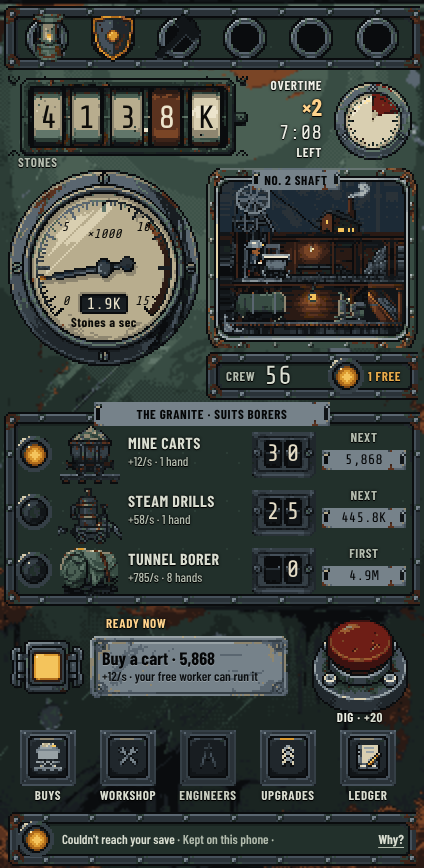
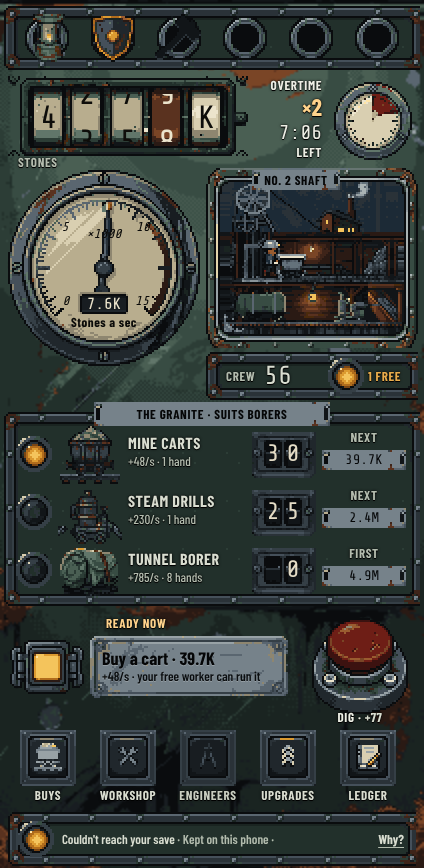
The control-board mockup shows the #357 prices and marks, kept equal to the game by a test (#387) (#391)
* The control-board mockup takes its prices, speeds and milestone lines from the game's numbers, kept equal by a test (#387).

Claude-Session: https://claude.ai/code/session_011RgeWtHrfst9ZFo4UNmN4N

* Better boots in the control-board mockup multiply the marked workers as the game does, and the dead green info state goes (#387).

Claude-Session: https://claude.ai/code/session_011RgeWtHrfst9ZFo4UNmN4N

---------

diff --git a/mockups/control-board/index.html b/mockups/control-board/index.html
@@ -215,8 +215,7 @@ body.desk #housing{display:block}
 .srow .ico{width:64px;height:64px}
 .srow .mid{position:relative;display:flex;flex-direction:column;min-width:0;overflow:hidden}
 .srow .nm{font-size:17px;line-height:19px;font-weight:700;color:var(--ink);white-space:nowrap}
-.srow .info{font-size:13px;line-height:15px;color:var(--ink-2);white-space:nowrap}
-.srow .info.good{color:var(--green)}
+.srow .info{font-size:13px;line-height:15px;color:var(--ink-2);white-space:nowrap;overflow:hidden;text-overflow:ellipsis}
 .srow .need{font-size:13px;line-height:15px;color:var(--rust);white-space:nowrap}
 .srow .need:empty{display:none}
 .srow .flag{color:var(--amber)}
@@ -444,6 +443,141 @@ body.desk #housing{display:block}
 </div>
 </div>
 
+<!-- The game's numbers: src/tiers.ts, src/milestones.ts, src/layers.ts (the Granite) and src/upgrades.ts (boots).
+     mockups/control-board.test.ts keeps this block equal to them (#387). -->
+<script type="application/json" id="game-numbers">
+{
+ "growth": {
+  "machine": 1.15,
+  "worker": 1.06
+ },
+ "tiers": {
+  "helper": {
+   "firstCost": 20,
+   "perSecond": 1
+  },
+  "cart": {
+   "firstCost": 600,
+   "perSecond": 6
+  },
+  "drill": {
+   "firstCost": 73080,
+   "perSecond": 36
+  },
+  "borer": {
+   "firstCost": 4940000,
+   "perSecond": 357
+  }
+ },
+ "boots": 1.36,
+ "granite": {
+  "drill": 0.8,
+  "borer": 1.1
+ },
+ "milestones": {
+  "multiplier": 2,
+  "reachedLine": "Twice as fast now.",
+  "marks": {
+   "helper": [
+    {
+     "at": 25,
+     "goal": "Twenty-five workers who know the songs. Every worker digs twice as fast."
+    },
+    {
+     "at": 50,
+     "goal": "Fifty workers around one long lunch table. Twice as fast again."
+    },
+    {
+     "at": 100,
+     "goal": "A hundred workers. The camp is a little village now. Twice as fast again."
+    }
+   ],
+   "cart": [
+    {
+     "at": 10,
+     "goal": "Ten carts on the rails. Every cart hauls twice as fast."
+    },
+    {
+     "at": 25,
+     "goal": "Twenty-five carts in a long, rattling line. Twice as fast again."
+    },
+    {
+     "at": 50,
+     "goal": "Fifty carts and the rails never rest. Twice as fast again."
+    },
+    {
+     "at": 100,
+     "goal": "A hundred carts, a river of rock. Twice as fast again."
+    },
+    {
+     "at": 150,
+     "goal": "A hundred and fifty carts. The tracks hum all night. Twice as fast again."
+    },
+    {
+     "at": 200,
+     "goal": "Two hundred carts. The old mine was never this busy. Twice as fast again."
+    }
+   ],
+   "drill": [
+    {
+     "at": 10,
+     "goal": "Ten drills and the crew finds its rhythm. Every drill mines twice as fast."
+    },
+    {
+     "at": 25,
+     "goal": "Twenty-five drills humming together. Twice as fast again."
+    },
+    {
+     "at": 50,
+     "goal": "Fifty drills in step, like one long breath. Twice as fast again."
+    },
+    {
+     "at": 100,
+     "goal": "A hundred drills. The whole hill thrums. Twice as fast again."
+    },
+    {
+     "at": 150,
+     "goal": "A hundred and fifty drills, and nobody has to shout. Twice as fast again."
+    },
+    {
+     "at": 200,
+     "goal": "Two hundred drills. The rock just gives way. Twice as fast again."
+    }
+   ],
+   "borer": [
+    {
+     "at": 5,
+     "goal": "Five borers side by side. They clear the tunnels twice as fast."
+    },
+    {
+     "at": 10,
+     "goal": "Ten borers in step. Twice as fast again."
+    },
+    {
+     "at": 25,
+     "goal": "Twenty-five borers in step. Twice as fast again."
+    },
+    {
+     "at": 50,
+     "goal": "Fifty borers, a slow and steady thunder. Twice as fast again."
+    },
+    {
+     "at": 100,
+     "goal": "A hundred borers. New tunnels open by the hour. Twice as fast again."
+    },
+    {
+     "at": 150,
+     "goal": "A hundred and fifty borers working the deep dark. Twice as fast again."
+    },
+    {
+     "at": 200,
+     "goal": "Two hundred borers. The mountain rings like a bell. Twice as fast again."
+    }
+   ]
+  }
+ }
+}
+</script>
 <script>
 (() => {
 "use strict";
@@ -501,7 +635,7 @@ const lamp = (el, k) => frameX(el, LAMP[k], 40);
 
 /* ---------- State: the player's real numbers ---------- */
 const S = {
-  stones: 412_400, base: 956, mul: 2,
+  stones: 412_400, mul: 2,
   boostLeft: 7 * 60 + 9, boostLen: 30 * 60,
   workers: 56, free: 1, carts: 30, drills: 25, borers: 0,
   tapLevel: 1, boots: false, picksLeft: 0,
@@ -509,9 +643,32 @@ const S = {
   bench: null, saveTries: 3,
 };
 const STAFF = { cart: 1, drill: 1, borer: 8 };
-/* #363 curve: machines ×1.13 a unit, workers ×1.08 (src/tiers.ts tierCost) */
+/* The game's numbers, from the game-numbers block above (#387) */
+const GAME = JSON.parse(document.getElementById("game-numbers").textContent);
+const COUNT = { helper: () => S.workers, cart: () => S.carts, drill: () => S.drills, borer: () => S.borers };
+/* src/tiers.ts tierCost: machines and workers each climb their own curve */
 const curve = (first, g, n) => Math.ceil(Number((first * g ** n).toPrecision(12)));
-const rate = () => S.base * S.mul;
+const priceOf = id => curve(GAME.tiers[id].firstCost, id === "helper" ? GAME.growth.worker : GAME.growth.machine, COUNT[id]());
+/* src/milestones.ts: every mark reached doubles every one of that tier */
+const marksOf = (id, n) => GAME.milestones.marks[id].filter(m => n >= m.at).length;
+/* src/rates.ts: one of a tier, in the Granite, with its marks, before boots and Overtime */
+const plainOf = id => GAME.tiers[id].perSecond * (GAME.granite[id] ?? 1) * GAME.milestones.multiplier ** marksOf(id, COUNT[id]());
+/* Better boots speed every worker by GAME.boots of his own output */
+const eachOf = id => plainOf(id) * (id === "helper" && S.boots ? 1 + GAME.boots : 1);
+/* src/milestones.ts milestoneLine, with the board's number format */
+function milestoneLine(id){
+  const n = COUNT[id](), marks = GAME.milestones.marks[id];
+  const now = marksOf(id, n) ? GAME.milestones.reachedLine : null;
+  const next = marks.find(m => n < m.at);
+  if (!next) return now;
+  const goal = `${short(n)} of ${short(next.at)} · ${next.goal}`;
+  return now ? `${now} ${goal}` : goal;
+}
+/* The Buys row's info line: the whole milestone line, then without the "twice as fast now"
+   lead; the last one clips with an ellipsis (Flemming's call on #387) */
+const markInfo = id => { const line = milestoneLine(id); return [line, line.replace(GAME.milestones.reachedLine + " ", "")]; };
+const base = () => Object.keys(COUNT).reduce((sum, id) => sum + eachOf(id) * COUNT[id](), 0);
+const rate = () => base() * S.mul;
 const tapPower = () => (1 + Math.floor(rate() * 0.01 * S.tapLevel)) * (S.picksLeft > 0 ? 2 : 1);
 const T0 = new Date(); T0.setHours(22, 14, 0, 0);
 const loadAt = performance.now();
@@ -542,21 +699,21 @@ function eta(sec){
 /* ---------- Buys, upgrades, workshop (same rules as the game) ---------- */
 const BUY = {
   worker: { key: "worker", group: "Crew", name: "Worker", one: "worker", icon: "mach-worker", verb: "Hire",
-    cost: () => curve(20, 1.08, S.workers), gain: () => 1 * S.mul,
-    info: () => `${S.workers} hired · ${S.free} free`,
-    buy(){ S.workers++; S.free++; S.base += 1; return { text: `Worker ${S.workers} is on the crew` }; } },
+    cost: () => priceOf("helper"), gain: () => eachOf("helper") * S.mul,
+    info: () => markInfo("helper"),
+    buy(){ S.workers++; S.free++; return { text: `Worker ${S.workers} is on the crew` }; } },
   cart: { key: "cart", group: "Machines", name: "Mine cart", one: "cart", icon: "mach-cart", verb: "Buy", staff: STAFF.cart,
-    cost: () => curve(150, 1.13, S.carts), gain: () => 6 * S.mul,
-    info: () => [`${S.carts} running · 1 worker each`, `${S.carts} running · 1 worker`],
-    buy(){ S.carts++; S.free--; S.base += 6; return { text: `Cart ${S.carts} is rolling`, bay: "bayCart" }; } },
+    cost: () => priceOf("cart"), gain: () => eachOf("cart") * S.mul,
+    info: () => markInfo("cart"),
+    buy(){ S.carts++; S.free--; return { text: `Cart ${S.carts} is rolling`, bay: "bayCart" }; } },
   drill: { key: "drill", group: "Machines", name: "Steam drill", one: "drill", icon: "mach-drill", verb: "Buy", staff: STAFF.drill,
-    cost: () => curve(21_000, 1.13, S.drills), gain: () => Math.round(28.8 * S.mul),
-    info: () => [`${S.drills} running · tough in the Granite`, `${S.drills} running · tough here`, `${S.drills} running`],
-    buy(){ S.drills++; S.free -= 1; S.base += 28.8; return { text: `Drill ${S.drills} is drilling`, bay: "bayDrill" }; } },
+    cost: () => priceOf("drill"), gain: () => Math.round(eachOf("drill") * S.mul),
+    info: () => markInfo("drill"),
+    buy(){ S.drills++; S.free -= 1; return { text: `Drill ${S.drills} is drilling`, bay: "bayDrill" }; } },
   borer: { key: "borer", group: "Machines", name: "Tunnel borer", one: "borer", icon: "mach-borer-tarp", verb: "Buy", staff: STAFF.borer,
-    cost: () => curve(4_940_000, 1.13, S.borers), gain: () => Math.round(392.7 * S.mul),
-    info: () => `Suits the Granite`, good: true,
-    buy(){ S.borers++; S.free -= 8; S.base += 392.7; return { text: `Borer ${S.borers} is boring in`, bay: "bayBorer" }; } },
+    cost: () => priceOf("borer"), gain: () => Math.round(eachOf("borer") * S.mul),
+    info: () => markInfo("borer"),
+    buy(){ S.borers++; S.free -= 8; return { text: `Borer ${S.borers} is boring in`, bay: "bayBorer" }; } },
 };
 const BUYS = [BUY.worker, BUY.cart, BUY.drill, BUY.borer];
 const MACHINES = [BUY.borer, BUY.drill, BUY.cart];
@@ -565,15 +722,15 @@ const UPGRADES = [
     cost: () => 1_200, gainText: () => "Taps ×2", info: () => S.picksLeft > 0 ? `${clock(S.picksLeft)} left` : "For 10 minutes",
     buy(){ S.picksLeft = 600; return { text: "Sharper picks are on" }; } },
   { key: "overtime", group: "Quick boosts", name: "Overtime", verb: "Refresh",
-    cost: () => Math.ceil(S.base * 180), gainText: () => "to 30:00", info: () => S.boostLeft > 0 ? `Crew ×2 · ${clock(S.boostLeft)} left` : "Crew ×2 for 30 min",
+    cost: () => Math.ceil(base() * 180), gainText: () => "to 30:00", info: () => S.boostLeft > 0 ? `Crew ×2 · ${clock(S.boostLeft)} left` : "Crew ×2 for 30 min",
     buy(){ S.mul = 2; S.boostLeft = S.boostLen; return { text: "Overtime runs to 30:00" }; } },
   { key: "arms", group: "Lasting", name: "Strong arms", verb: "Buy",
     cost: () => 40_000 * 5 ** S.tapLevel, gainText: () => "+" + short(Math.floor(rate() * .01 * (S.tapLevel + 1)) - Math.floor(rate() * .01 * S.tapLevel)) + "/tap",
     info: () => `Level ${S.tapLevel} to ${S.tapLevel + 1} · grows with crew`,
     buy(){ S.tapLevel++; return { text: `Strong arms, level ${S.tapLevel}` }; } },
   { key: "boots", group: "Lasting", name: "Better boots", verb: "Buy", once: () => S.boots,
-    cost: () => 650_000, gainText: () => "+" + Math.round(S.workers * 1.36 * S.mul) + "/s", info: () => "Every worker, every band",
-    buy(){ S.boots = true; S.base += S.workers * 1.36; return { text: "Better boots for the crew" }; } },
+    cost: () => 650_000, gainText: () => "+" + short(S.workers * plainOf("helper") * GAME.boots * S.mul) + "/s", info: () => "Every worker, every band",
+    buy(){ S.boots = true; return { text: "Better boots for the crew" }; } },
 ];
 const WORKSHOP = [
   { key: "grease", group: "Recipes", name: "Axle grease", verb: "Craft", bench: 600,
@@ -1002,9 +1159,10 @@ function paintBays(animate){
     if (pt.textContent !== price){ pt.textContent = price; }
   });
   const sub = document.querySelectorAll(".bay .sub");
+  /* the milestone line when it fits (spec C, Milestones), else today's gain and hands */
   [BUY.cart, BUY.drill, BUY.borer].forEach((d, i) => {
     const g = `+${short(d.gain())}/s`, h = `${d.staff} hand${d.staff > 1 ? "s" : ""}`;
-    sub[i].dataset.fit = `${g} · ${h} each|${g} · ${h}|${g}`;
+    sub[i].dataset.fit = `${milestoneLine(d.key)}|${g} · ${h} each|${g} · ${h}|${g}`;
   });
   /* all three bays use the same wording: the longest pattern that fits every one of them */
   const key = [...sub].map(s => s.dataset.fit).join("#");
@@ -1345,7 +1503,7 @@ function paintRows(){
     b.classList.remove("held");
     const st = status(def);
     const info = b.querySelector(".info"), need = b.querySelector(".need"), flag = b.querySelector(".flag");
-    fitText(info, [].concat(def.info())); info.classList.toggle("good", !!def.good);
+    fitText(info, [].concat(def.info()));
     b.querySelector(".gain").textContent = gainOf(def);
     const p = b.querySelector(".p"), v = b.querySelector(".verb");
     const isS = !!(sg && sg.def === def);

diff --git a/mockups/control-board.test.ts b/mockups/control-board.test.ts
@@ -1,0 +1,100 @@
+import { readFileSync } from "node:fs";
+import { dirname, join } from "node:path";
+import { fileURLToPath } from "node:url";
+import { describe, expect, it } from "vitest";
+import { formatCompact } from "../src/format.ts";
+import { hardnessOf } from "../src/layers.ts";
+import {
+  MILESTONES,
+  milestoneLine,
+  milestoneMultiplier,
+} from "../src/milestones.ts";
+import { tierById, tierCost, type TierId } from "../src/tiers.ts";
+import { BOOTS_SPEED_PER_LEVEL } from "../src/upgrades.ts";
+
+/**
+ * The control-board reference mockup (#377) is plain HTML that opens from
+ * any static server, so it cannot import src/. Its game numbers sit in one
+ * JSON block instead, and this test keeps that block equal to the game
+ * (#387). It checks the block, not the page's script: priceOf, eachOf and
+ * milestoneLine in index.html are ports, seen in its screenshots.
+ */
+type MockNumbers = {
+  readonly growth: { readonly machine: number; readonly worker: number };
+  readonly tiers: Readonly<
+    Record<string, { readonly firstCost: number; readonly perSecond: number }>
+  >;
+  readonly granite: Readonly<Record<string, number>>;
+  readonly boots: number;
+  readonly milestones: {
+    readonly multiplier: number;
+    readonly reachedLine: string;
+    readonly marks: Readonly<
+      Record<string, readonly { readonly at: number; readonly goal: string }[]>
+    >;
+  };
+};
+
+const html = readFileSync(
+  join(dirname(fileURLToPath(import.meta.url)), "control-board/index.html"),
+  "utf8",
+);
+const block =
+  /<script type="application\/json" id="game-numbers">([\s\S]*?)<\/script>/u.exec(
+    html,
+  );
+const mock = JSON.parse(block?.[1] ?? "null") as MockNumbers;
+const BOARD_TIERS: readonly TierId[] = ["helper", "cart", "drill", "borer"];
+/** The mockup's curve, as written in index.html. */
+const curve = (first: number, growth: number, n: number): number =>
+  Math.ceil(Number((first * growth ** n).toPrecision(12)));
+
+describe("control-board mockup numbers", () => {
+  it("has the game-numbers block", () => {
+    expect(block).not.toBeNull();
+  });
+
+  it.each(BOARD_TIERS)("prices and speeds %s as src/tiers.ts", (id) => {
+    const tier = tierById(id);
+    const row = mock.tiers[id];
+    expect(row).toEqual({
+      firstCost: tier.firstCost,
+      perSecond: tier.perSecond,
+    });
+    const growth = tier.staff === 0 ? mock.growth.worker : mock.growth.machine;
+    for (const n of [0, 1, 10, 25, 30, 56, 100]) {
+      expect(curve(row?.firstCost ?? 0, growth, n)).toBe(tierCost(tier, n));
+    }
+  });
+
+  it("keeps only the tiers the board shows", () => {
+    expect(Object.keys(mock.tiers).sort()).toEqual([...BOARD_TIERS].sort());
+  });
+
+  it("slows and favours machines in the Granite as src/layers.ts", () => {
+    for (const id of BOARD_TIERS) {
+      expect(mock.granite[id] ?? 1).toBe(hardnessOf(2, id));
+    }
+  });
+
+  it("speeds workers with Better boots as src/upgrades.ts", () => {
+    expect(mock.boots).toBe(BOOTS_SPEED_PER_LEVEL);
+  });
+
+  it.each(BOARD_TIERS)("marks %s as src/milestones.ts", (id) => {
+    expect(mock.milestones.marks[id]).toEqual(MILESTONES[id]);
+  });
+
+  it("doubles on a mark and words the line as src/milestones.ts", () => {
+    const cart = MILESTONES.cart ?? [];
+    const [first, second] = cart;
+    expect(first && second).toBeTruthy();
+    if (first === undefined || second === undefined) return;
+    expect(milestoneMultiplier("cart", first.at)).toBe(
+      mock.milestones.multiplier,
+    );
+    expect(milestoneLine("cart", first.at, formatCompact)).toBe(
+      `${mock.milestones.reachedLine} ${String(first.at)} of ${String(second.at)} · ${second.goal}`,
+    );
+  });
+});
